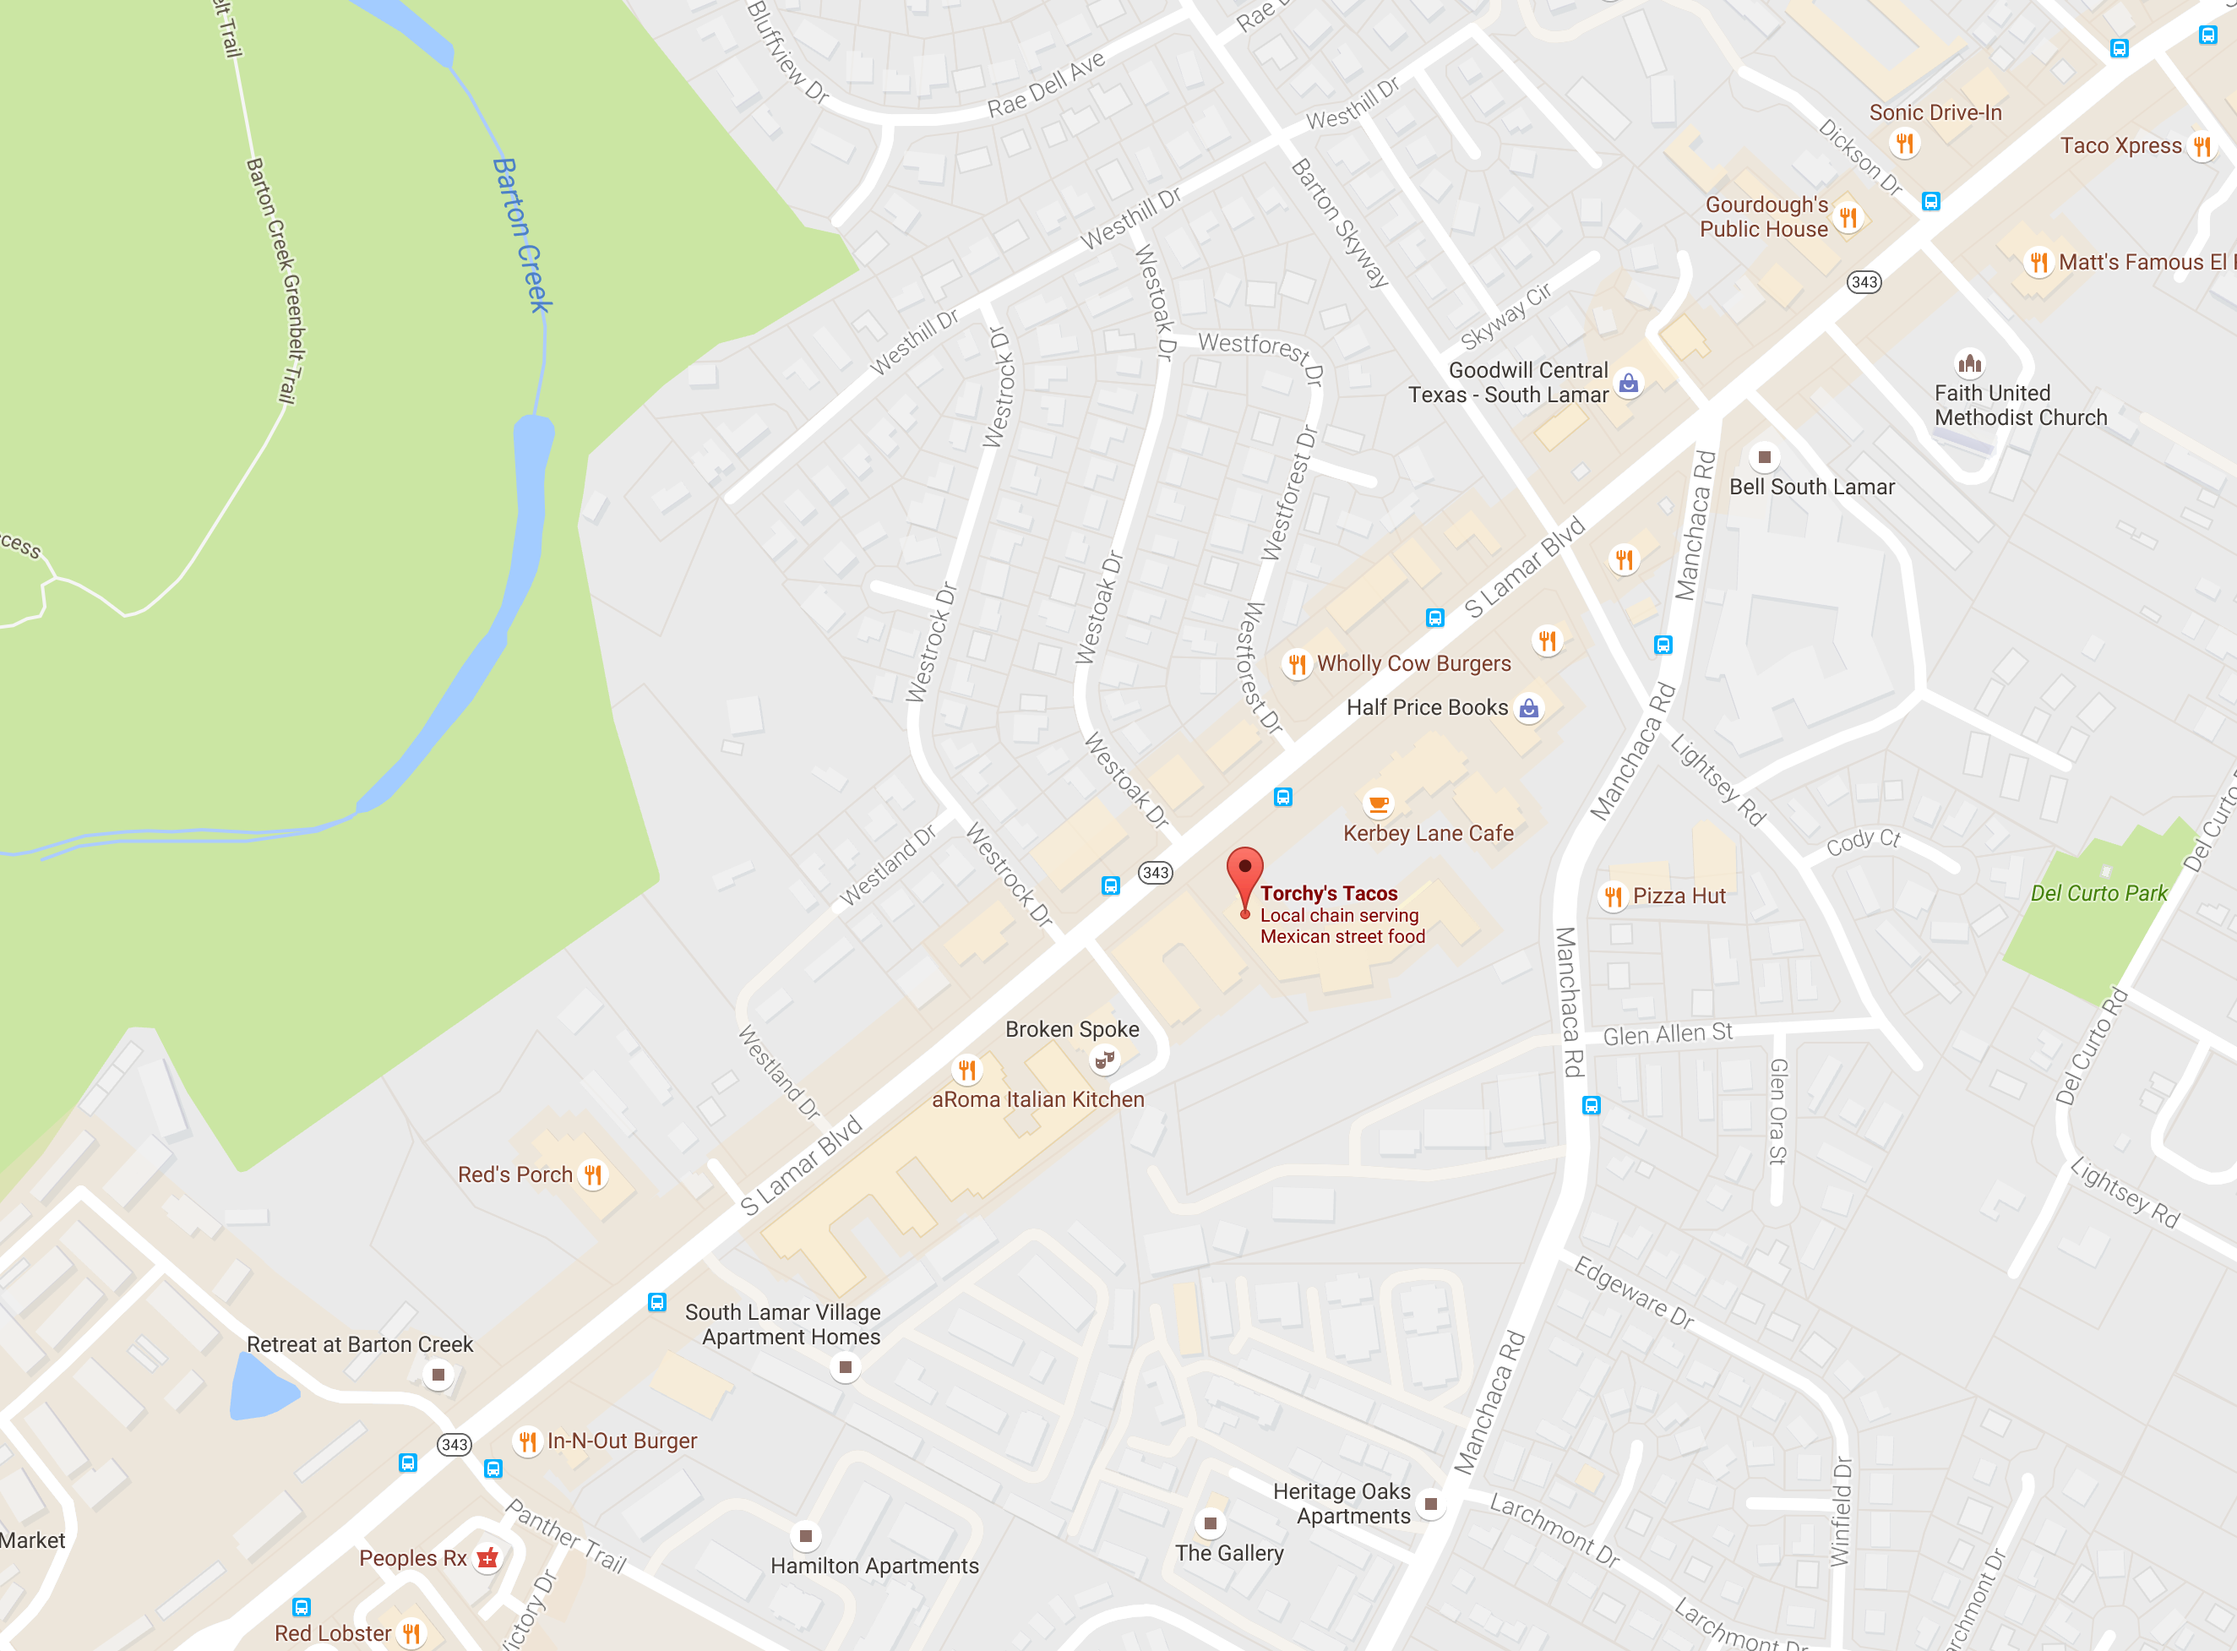
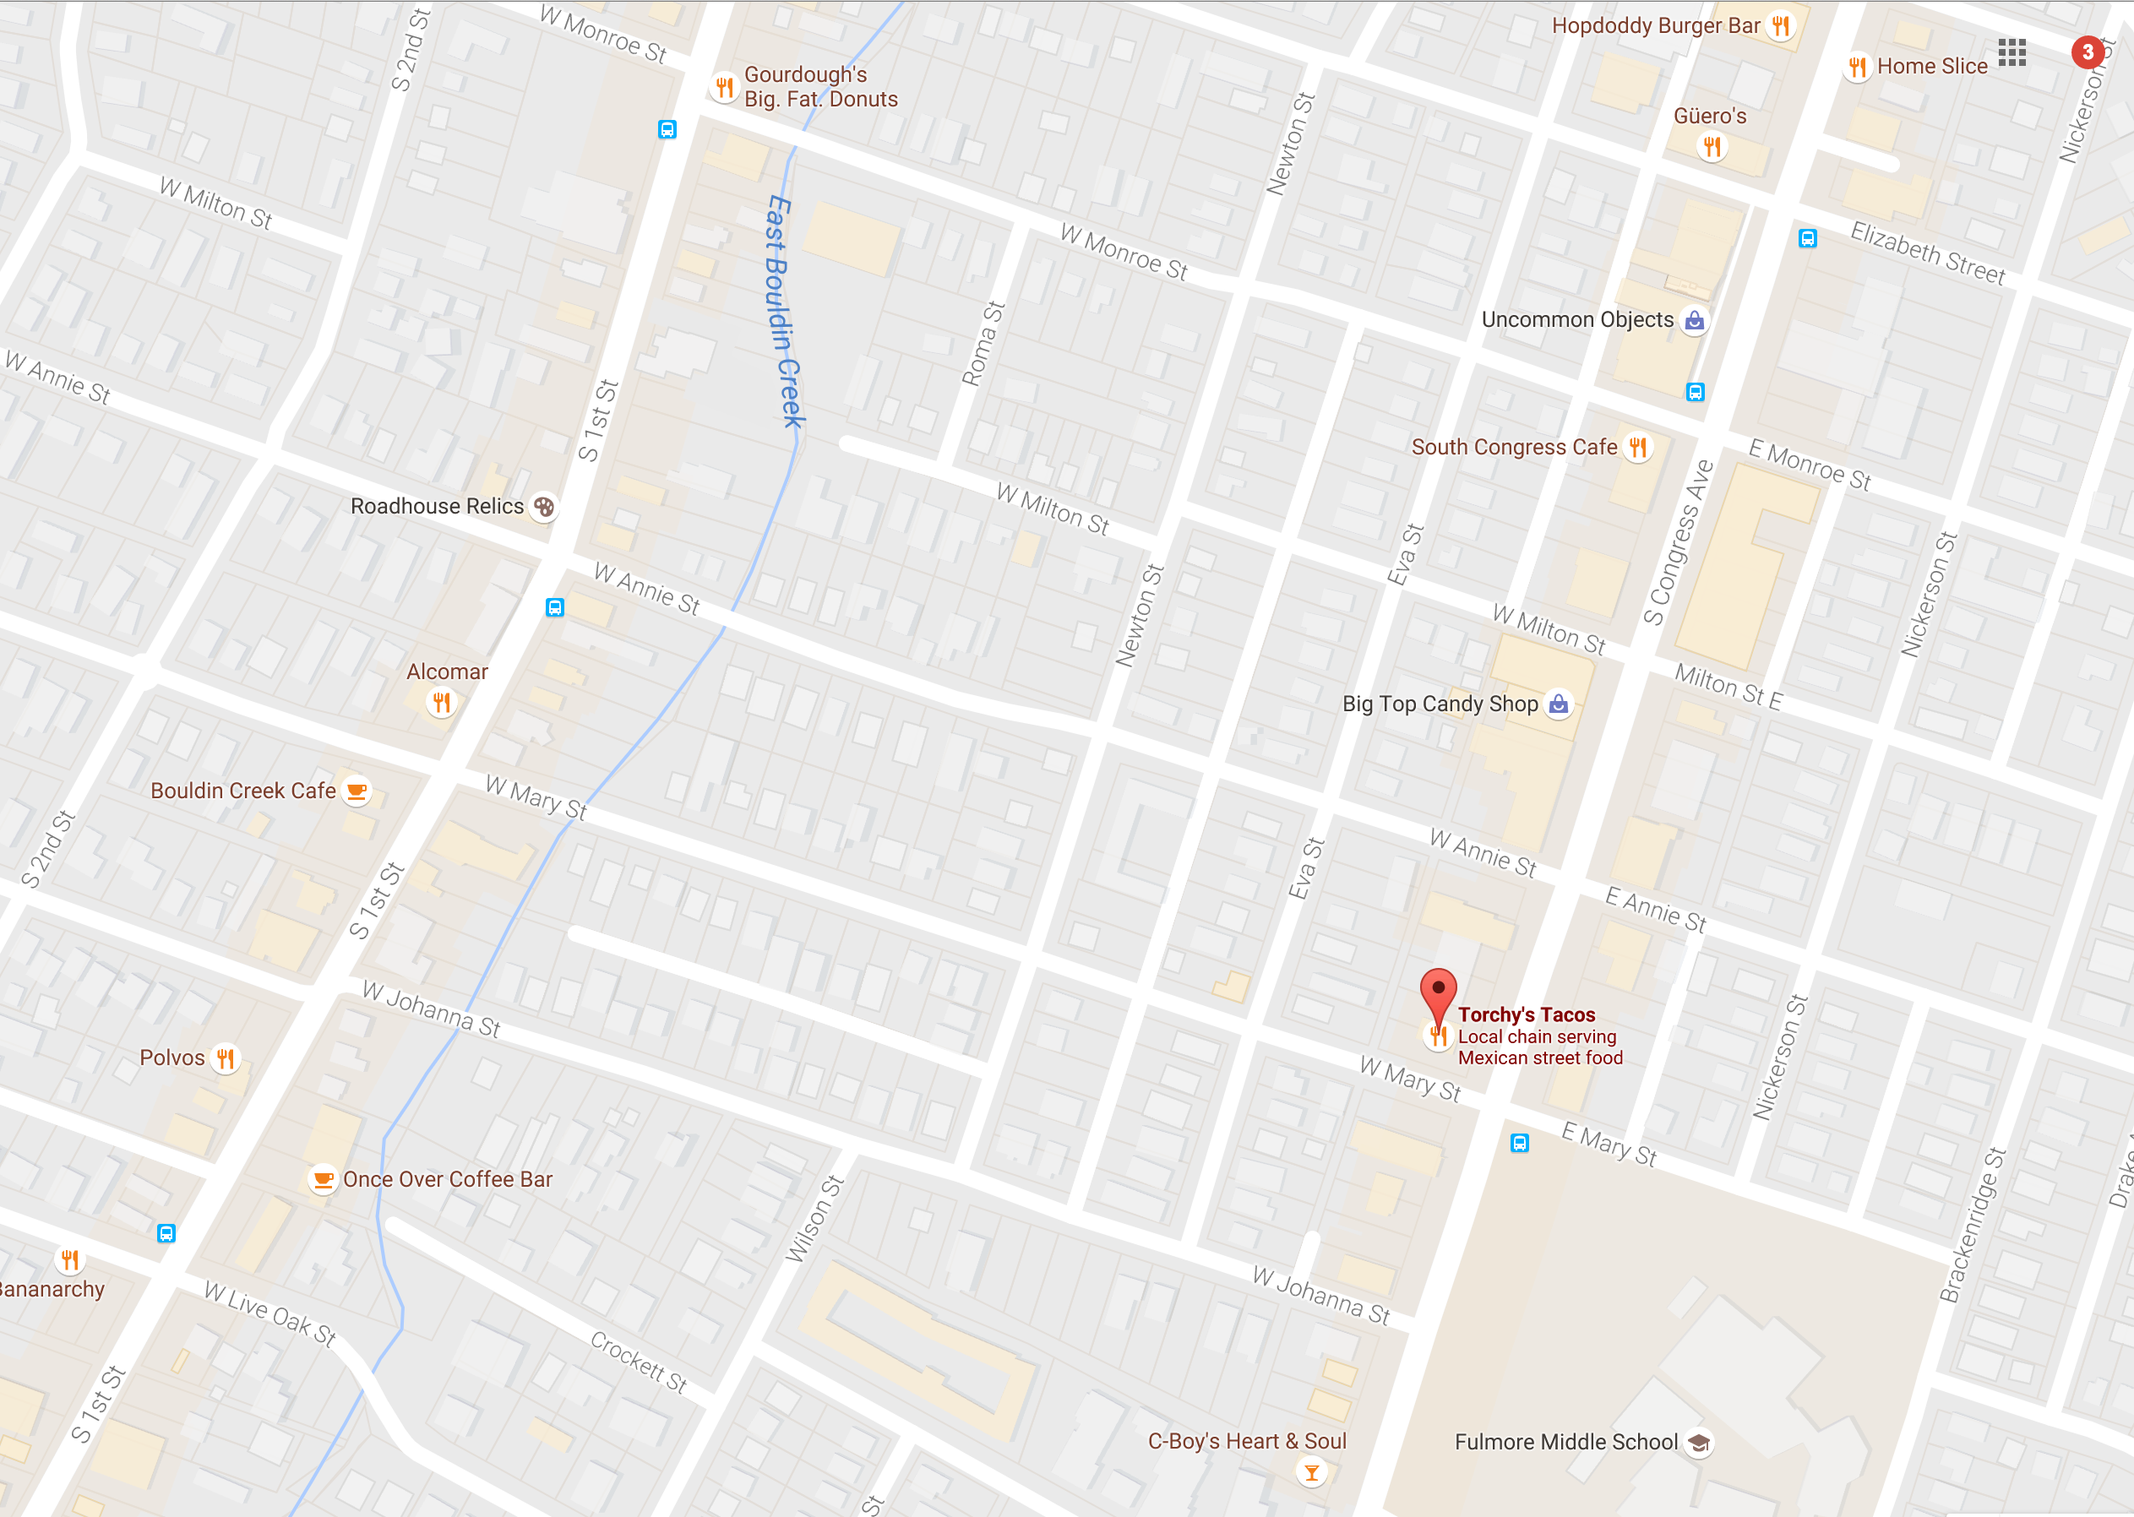
color scheme in place

diff --git a/index.html b/index.html
@@ -51,19 +51,7 @@
               </div>
               <button type="submit" class="btn btn-default">Submit</button>
             </form>
-            <ul class="nav navbar-nav navbar-right">
-              <!-- <li><a href="#">Link</a></li>
-              <li class="dropdown">
-                <a href="#" class="dropdown-toggle" data-toggle="dropdown" role="button" aria-haspopup="true" aria-expanded="false">Dropdown <span class="caret"></span></a>
-                <ul class="dropdown-menu">
-                  <li><a href="#">Action</a></li>
-                  <li><a href="#">Another action</a></li>
-                  <li><a href="#">Something else here</a></li>
-                  <li role="separator" class="divider"></li>
-                  <li><a href="#">Separated link</a></li>
-                </ul>
-              </li> -->
-            </ul>
+
           </div><!-- /.navbar-collapse -->
         </div><!-- /.container-fluid -->
       </nav>
@@ -100,7 +88,7 @@
                   </div>
                   <div class="form-group">
                     <label for="InputMessage1">Message</label>
-                    <textarea  class="form-control" rows="5" id="InputMessage1" placeholder="Your Message"></textarea>
+                    <textarea  class="form-control" rows="4" id="InputMessage1" placeholder="Your Message"></textarea>
                   </div>
                   <input class="btn btn-default" type="submit" value="Submit">
                 </form>
@@ -110,20 +98,17 @@
         </div>
       </div>
       <div class="slice img-bottom">
-           <div class="col-md-4 card-address">
-              <h4>Address</h4>
-              <p>5678 Sesame Street</br>
-              North City, WO 98765</p>
-              <h4>Hours</h4>
-              <p>Mon: 8:00 - 10:00</br>
-              Tues: 8:00 - 10:00</br>
-              Wed: 8:00 - 10:00</br>
-             Thurs: 8:00 - 10:00</br>
-              Fri: 8:00 - 10:00</br>
-              Sat: 8:00 - 11:00</br>
-              Sun: Closed</p>
-
-            </div>
+        <div class="col-md-3 card-address">
+          <h5>Address</h5>
+          <p>5678 Sesame Street</br>
+          North City, WO 98765</p>
+          <h5>Hours</h5>
+          <p>Mon & Tues: 8:00 - 10:00</br>
+          Wed: Closed</br>
+          Thurs: 8:00 - 10:00</br>
+          Fri & Sat: 8:00 - 11:00</br>
+          Sun: 12:00-5:00</p>
+        </div>
       </div>
     </div>
 

diff --git a/css/main.css b/css/main.css
@@ -1,11 +1,13 @@
 /* --- General Layout --- */
 
 .slice {
-  height: 45em;
-  padding: 10em;
+  height: 50em;
+  padding: 10em 5em;
+  margin-top: -2em;
 }
-.navbar {
-  margin-bottom: -2px;
+.card-address {
+  margin-top: 2em;
+  padding: 1em 2em;
 }
 
 /* --- Skewing --- */
@@ -17,16 +19,18 @@
 .skew-outer .skew-set::before {
   content: '';
   position: absolute;
-  top: -2em;
+  top: 0;
   left: 0;
-  height: 50em;
+  height: 55em;
   overflow: visible;
   width: 100%;
   z-index: -1;
   -webkit-transform: skewY(-3deg);
   -moz-transform: skewY(-3deg);
   transform: skewY(-3deg);
+
 }
+
 
 /* --- Typography --- */
 
@@ -34,36 +38,57 @@
 /* --- Theme --- */
 
 /* --
-#5D6622 - dark green
-#A5B24D - light green
-#6691BF - blue
-#FF6D61 - bright peach
-#7F302A - dark peach
+#a6a378 - muted moss
+#595738 - dark moss
+#F2F0C8 - cream
+#3C2F59 - dark purple
+#8678A6 - light purple
+#bcc8da - sky blue
 -- */
 
 body {
-  background-color: gray;
+  background-color: #595738;
+}
+.skew-outer .skew-set::before,
+.card-address {
+  color: black;
+  background-color: #a6a378;
+
 }
 .hero {
+  color: white;
   background: url("../images/bgd-rocks.jpg") no-repeat top center;
   background-size: cover;
-  color: white;
 }
 .img-bottom {
-  background: url("../images/map.png") no-repeat bottom center;
+  background: url("../images/map.png") no-repeat top right;
   background-size: cover;
-  color: white;
 }
 .skew-outer .skew-set::before {
-  background-color: white;
   webkit-box-shadow: 0px 10px 2px -1px rgba(0,0,0,0.5);
   -moz-box-shadow: 0px 10px 2px -1px rgba(0,0,0,0.5);
   box-shadow: 0px 10px 2px -1px rgba(0,0,0,0.5);
 }
 .card-address {
-  color: black;
-  background-color: white;
   -webkit-box-shadow: 10px 10px 5px 0px rgba(0,0,0,0.5);
   -moz-box-shadow: 10px 10px 5px 0px rgba(0,0,0,0.5);
   box-shadow: 10px 10px 5px 0px rgba(0,0,0,0.5);
+}
+.btn-default {
+  background-color: #bcc8da;
+  border-color: #bcc8da;
+}
+.navbar-default, hr {
+  background-color: #a6a378;
+  border-color: #a6a378;
+}
+h1, h2, h3, .hero p {
+  color: #F2F0C8;
+}
+h4, h5 {
+  color: #bcc8da;
+}
+
+h5 {
+  text-transform: uppercase;
 }
